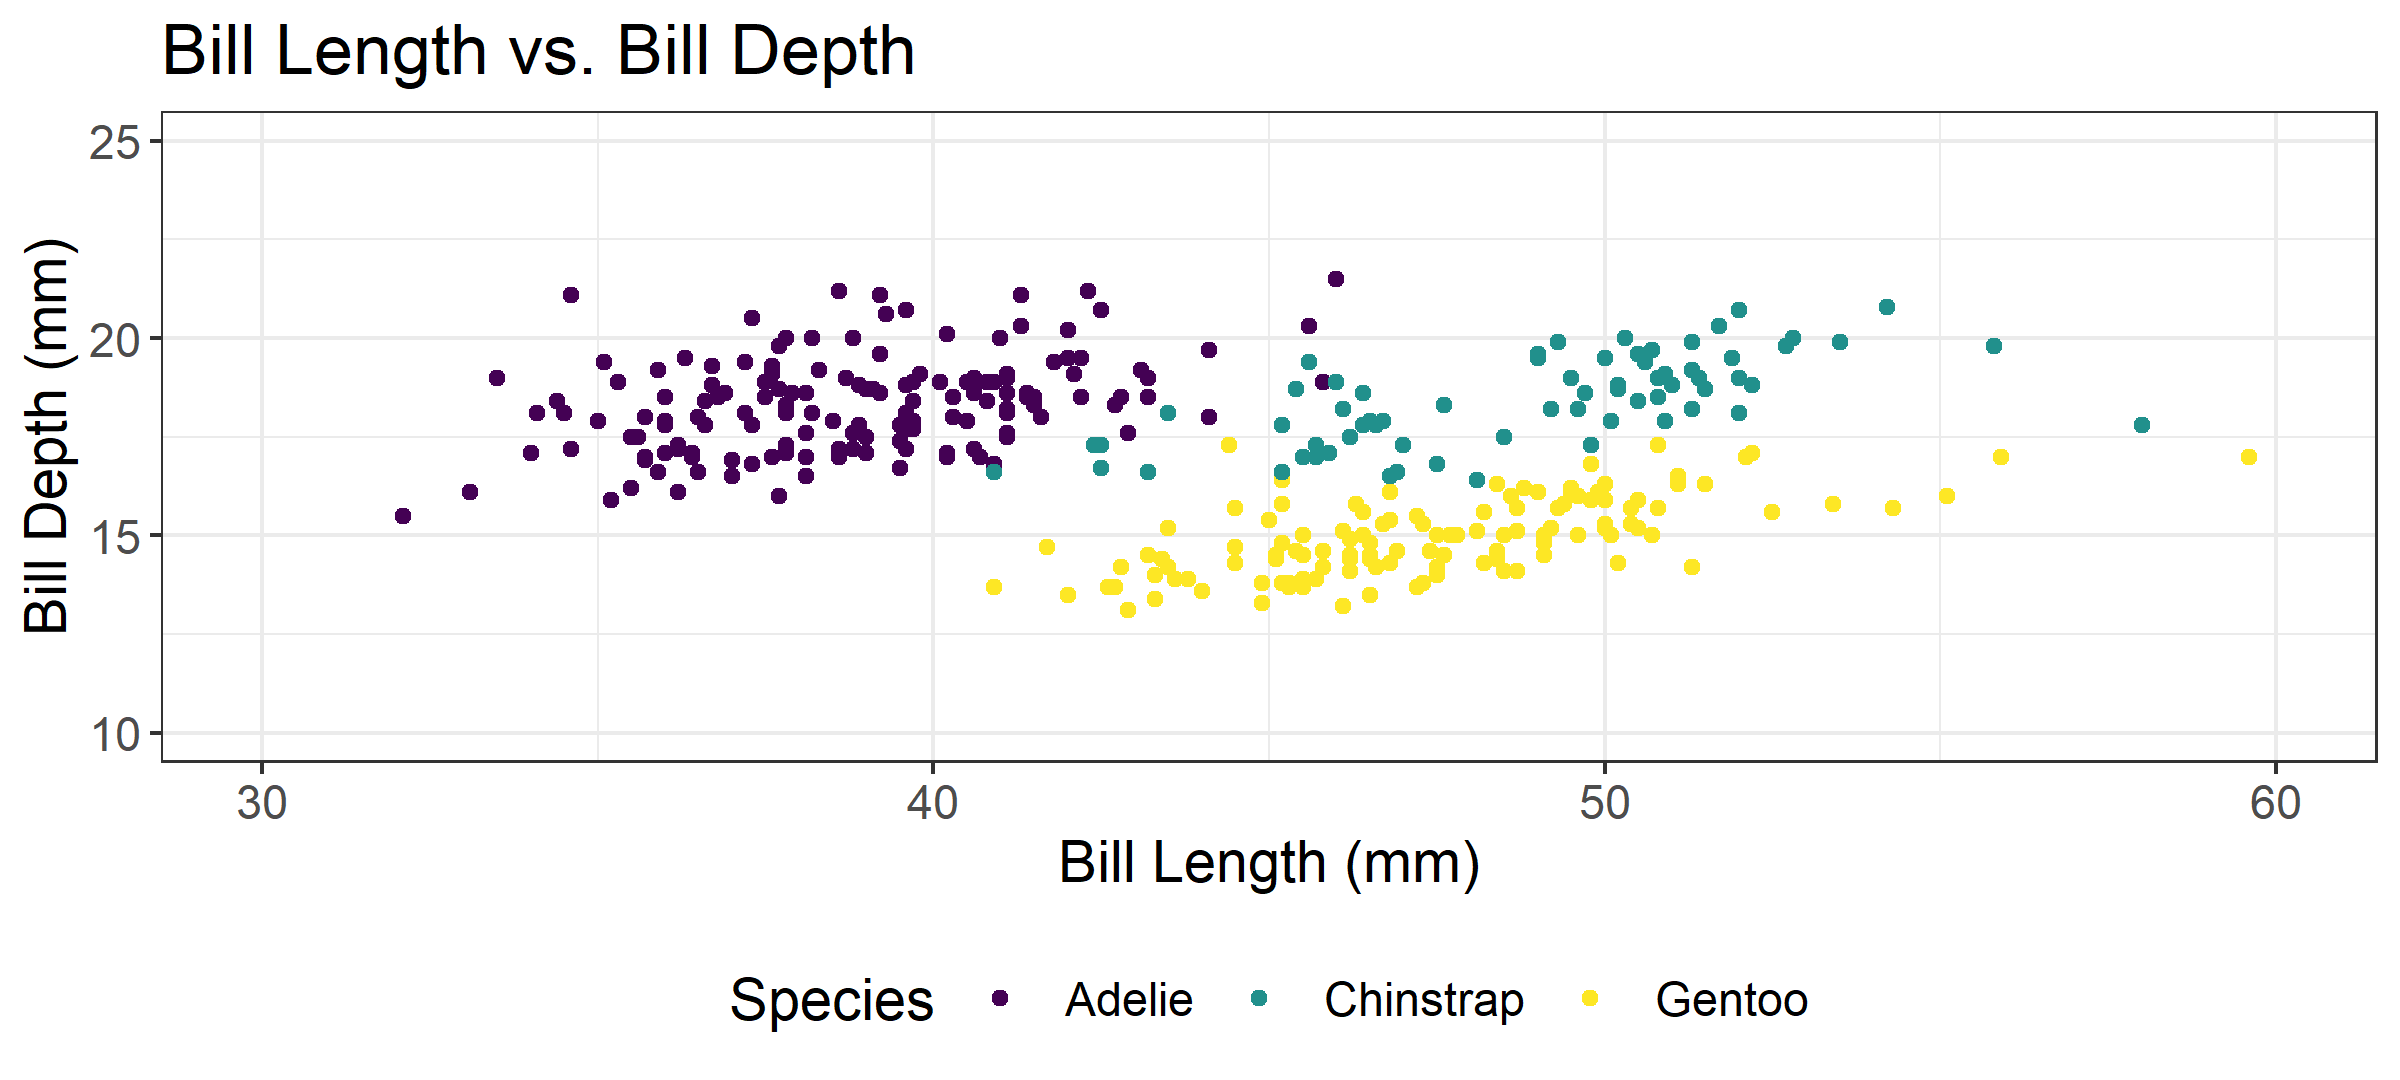
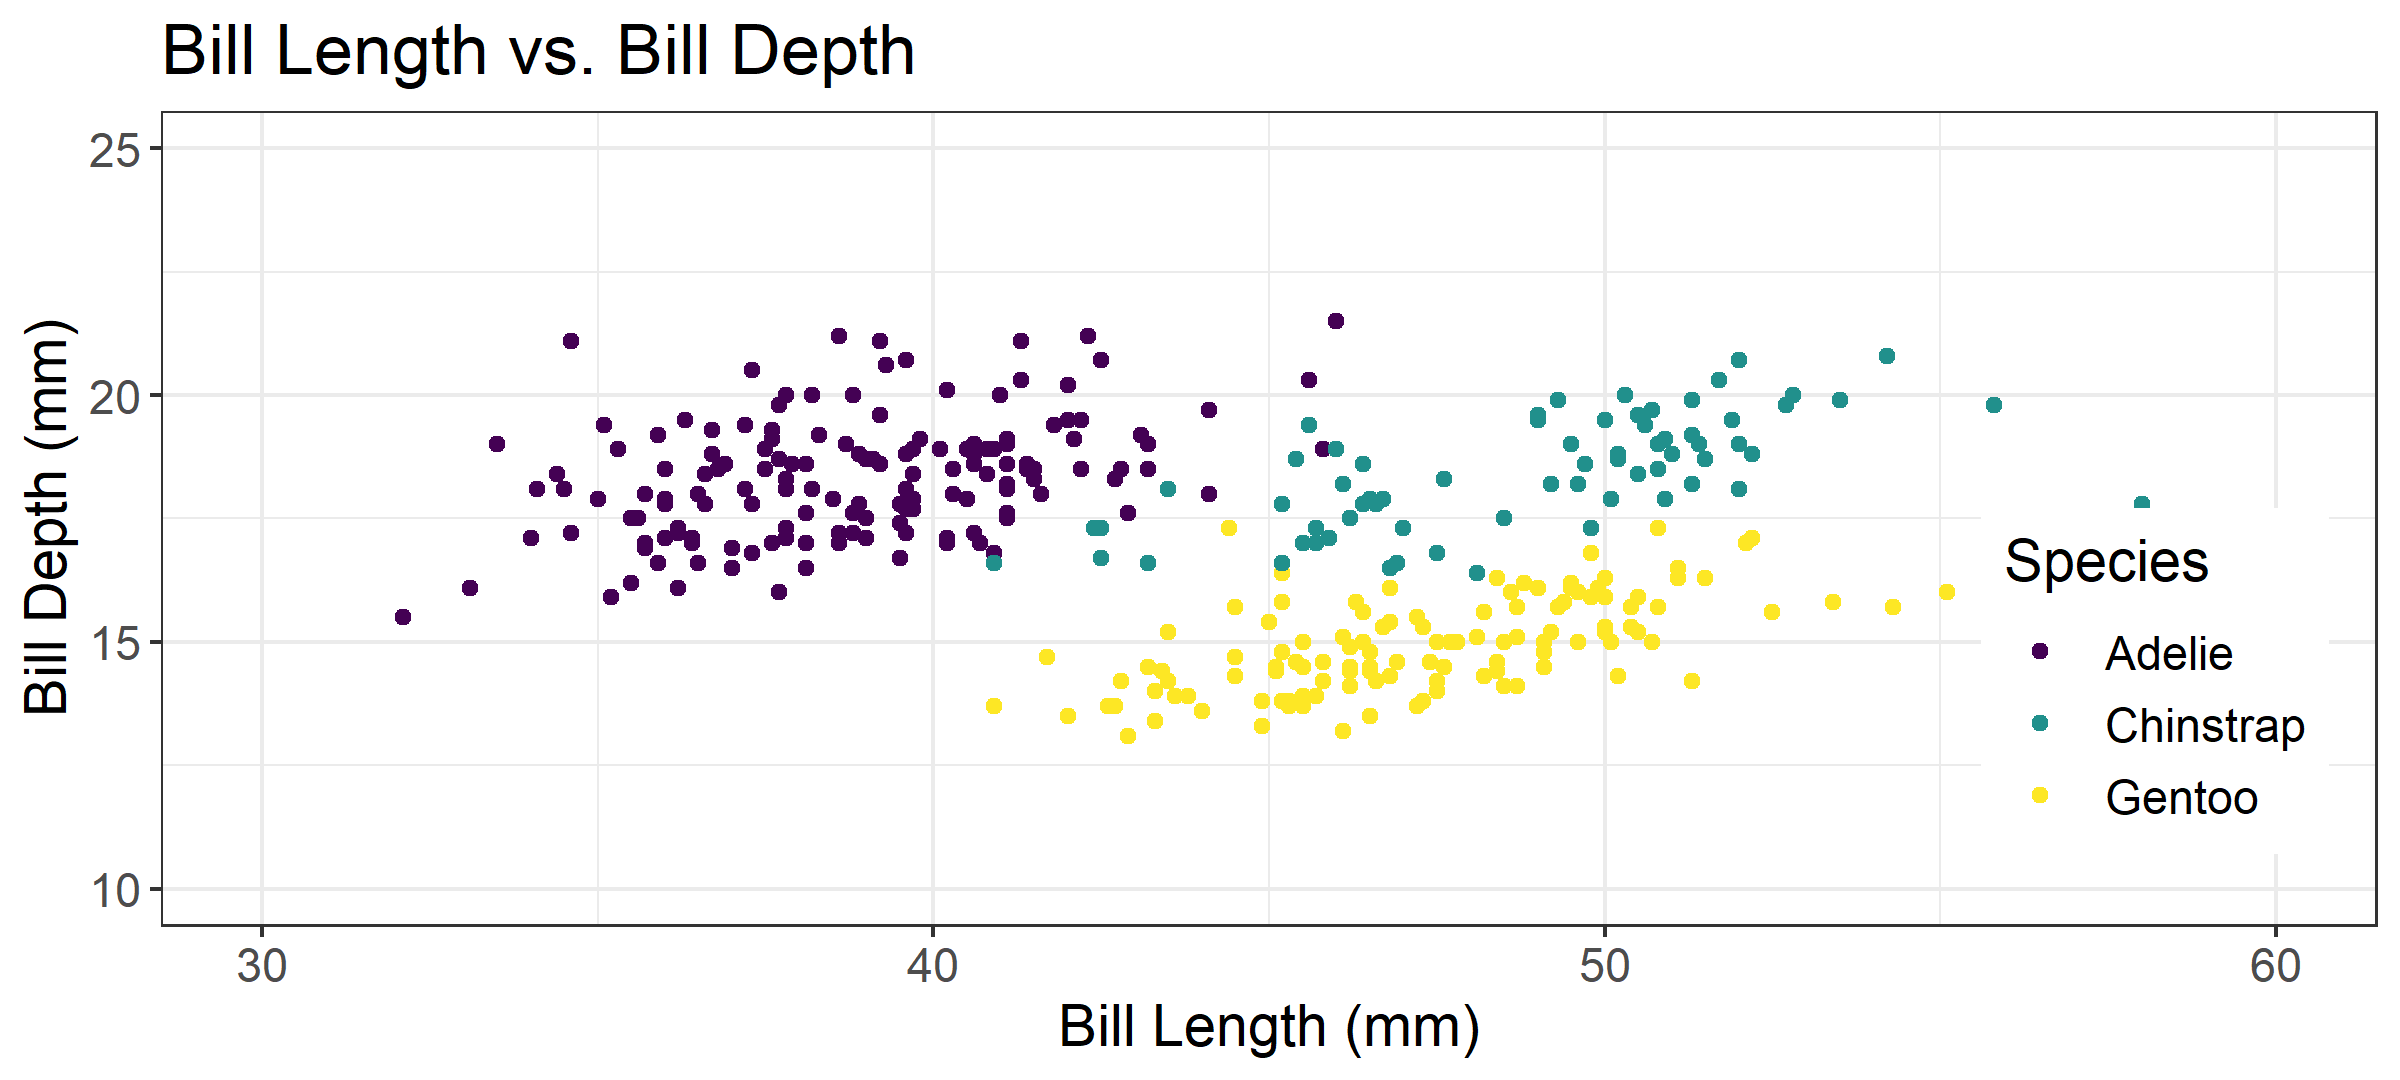
updated lab 1 assignment

diff --git a/Labs/Lab 2 - data import and visualization/Lab.html b/Labs/Lab 2 - data import and visualization/Lab.html
@@ -484,9 +484,9 @@
 <p>With <code>readr</code> and <code>readxl</code>, you will be able to use the following functions to read spreadsheets into R.</p>
 <table>
 <colgroup>
-<col style="width: 25%">
-<col style="width: 49%">
-<col style="width: 25%">
+<col style="width: 26%">
+<col style="width: 47%">
+<col style="width: 26%">
 </colgroup>
 <thead>
 <tr class="header">
@@ -1308,22 +1308,22 @@ $ year              &lt;fct&gt; 2007, 2007, 2007, 2007, 2007, 2007, 2007, 2007, 
 </section>
 <section id="put-all-together" class="slide level2">
 <h2>Put all together</h2>
-<div class="cell" data-layout-align="center">
-<div class="sourceCode cell-code" id="cb58"><pre class="sourceCode numberSource r number-lines code-with-copy"><code class="sourceCode r"><span id="cb58-1"><a href="#cb58-1"></a><span class="fu">ggplot</span>(<span class="at">data =</span> penguins) <span class="sc">+</span></span>
-<span id="cb58-2"><a href="#cb58-2"></a>  <span class="fu">geom_point</span>(<span class="fu">aes</span>(<span class="at">x =</span> bill_length_mm, <span class="at">y =</span> bill_depth_mm, <span class="at">colour =</span> species)) <span class="sc">+</span></span>
-<span id="cb58-3"><a href="#cb58-3"></a>  <span class="fu">labs</span>(<span class="at">title =</span> <span class="st">"Bill Length vs. Bill Depth"</span>,</span>
-<span id="cb58-4"><a href="#cb58-4"></a>         <span class="at">x =</span> <span class="st">"Bill Length (mm)"</span>,</span>
-<span id="cb58-5"><a href="#cb58-5"></a>         <span class="at">y =</span> <span class="st">"Bill Depth (mm)"</span>,</span>
-<span id="cb58-6"><a href="#cb58-6"></a>         <span class="at">colour =</span> <span class="st">"Species"</span>) <span class="sc">+</span></span>
-<span id="cb58-7"><a href="#cb58-7"></a>  <span class="fu">scale_x_continuous</span>(<span class="at">limits =</span> <span class="fu">c</span>(<span class="dv">30</span>, <span class="dv">60</span>)) <span class="sc">+</span></span>
-<span id="cb58-8"><a href="#cb58-8"></a>  <span class="fu">scale_y_continuous</span>(<span class="at">limits =</span> <span class="fu">c</span>(<span class="dv">10</span>, <span class="dv">25</span>)) <span class="sc">+</span></span>
-<span id="cb58-9"><a href="#cb58-9"></a>  <span class="fu">scale_colour_viridis_d</span>() <span class="sc">+</span></span>
-<span id="cb58-10"><a href="#cb58-10"></a>  <span class="fu">theme_bw</span>() <span class="sc">+</span></span>
-<span id="cb58-11"><a href="#cb58-11"></a>  <span class="fu">theme</span>(<span class="at">text =</span> <span class="fu">element_text</span>(<span class="at">size =</span> <span class="dv">14</span>),</span>
-<span id="cb58-12"><a href="#cb58-12"></a>        <span class="at">legend.position =</span> <span class="st">"bottom"</span>)</span></code><button title="Copy to Clipboard" class="code-copy-button"><i class="bi"></i></button></pre></div>
-
-</div>
-<img data-src="Lab_files/figure-revealjs/unnamed-chunk-56-1.png" style="width:90.0%" class="r-stretch quarto-figure-center"></section></section>
+<div class="sourceCode" id="cb58" data-code-line-numbers="|1|2-3|4-7|8-13"><pre class="sourceCode numberSource r number-lines code-with-copy"><code class="sourceCode r"><span id="cb58-1"><a href="#cb58-1"></a><span class="fu">ggplot</span>(<span class="at">data =</span> penguins, <span class="fu">aes</span>(<span class="at">x =</span> bill_length_mm, <span class="at">y =</span> bill_depth_mm, <span class="at">colour =</span> species)) <span class="sc">+</span></span>
+<span id="cb58-2"><a href="#cb58-2"></a>  <span class="fu">geom_point</span>(<span class="at">size =</span> <span class="dv">2</span>) <span class="sc">+</span></span>
+<span id="cb58-3"><a href="#cb58-3"></a>  <span class="fu">geom_smooth</span>(<span class="at">method =</span> <span class="st">"lm"</span>, <span class="at">se =</span> <span class="cn">FALSE</span>) <span class="sc">+</span></span>
+<span id="cb58-4"><a href="#cb58-4"></a>  <span class="fu">labs</span>(<span class="at">title =</span> <span class="st">"Bill Length vs. Bill Depth"</span>,</span>
+<span id="cb58-5"><a href="#cb58-5"></a>       <span class="at">x =</span> <span class="st">"Bill Length (mm)"</span>,</span>
+<span id="cb58-6"><a href="#cb58-6"></a>       <span class="at">y =</span> <span class="st">"Bill Depth (mm)"</span>,</span>
+<span id="cb58-7"><a href="#cb58-7"></a>       <span class="at">colour =</span> <span class="st">"Species"</span>) <span class="sc">+</span></span>
+<span id="cb58-8"><a href="#cb58-8"></a>  <span class="fu">scale_x_continuous</span>(<span class="at">limits =</span> <span class="fu">c</span>(<span class="dv">30</span>, <span class="dv">60</span>)) <span class="sc">+</span></span>
+<span id="cb58-9"><a href="#cb58-9"></a>  <span class="fu">scale_y_continuous</span>(<span class="at">limits =</span> <span class="fu">c</span>(<span class="dv">10</span>, <span class="dv">25</span>)) <span class="sc">+</span></span>
+<span id="cb58-10"><a href="#cb58-10"></a>  <span class="fu">scale_colour_viridis_d</span>() <span class="sc">+</span></span>
+<span id="cb58-11"><a href="#cb58-11"></a>  <span class="fu">theme_bw</span>() <span class="sc">+</span></span>
+<span id="cb58-12"><a href="#cb58-12"></a>  <span class="fu">theme</span>(<span class="at">text =</span> <span class="fu">element_text</span>(<span class="at">size =</span> <span class="dv">14</span>),</span>
+<span id="cb58-13"><a href="#cb58-13"></a>        <span class="at">legend.position =</span> <span class="fu">c</span>(<span class="fl">0.9</span>, <span class="fl">0.3</span>))</span>
+<span id="cb58-14"><a href="#cb58-14"></a>  </span></code><button title="Copy to Clipboard" class="code-copy-button"><i class="bi"></i></button></pre></div>
+<p><img data-src="images/paste-291168FA.png" class="absolute" style="top: 300px; right: 0px; width: 618px; "></p>
+</section></section>
 <section id="data-visualization-combining-plots" class="title-slide slide level1 center">
 <h1>Data visualization: Combining plots</h1>
 
